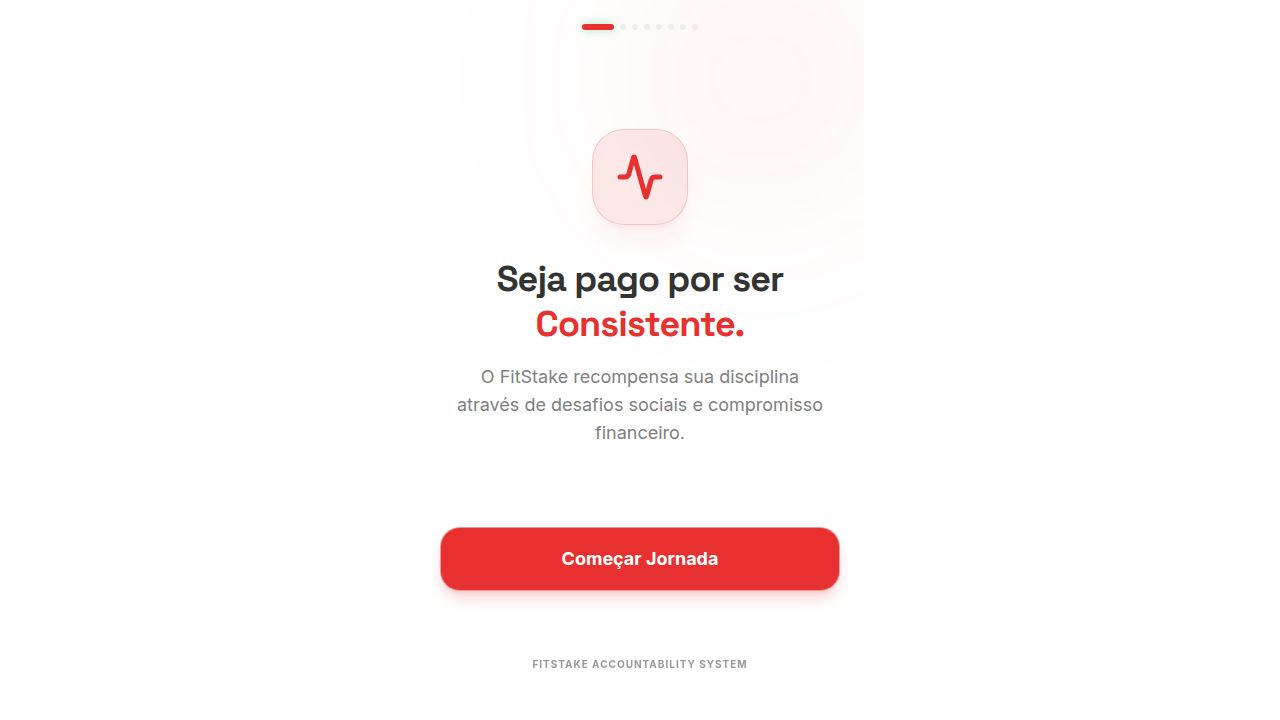
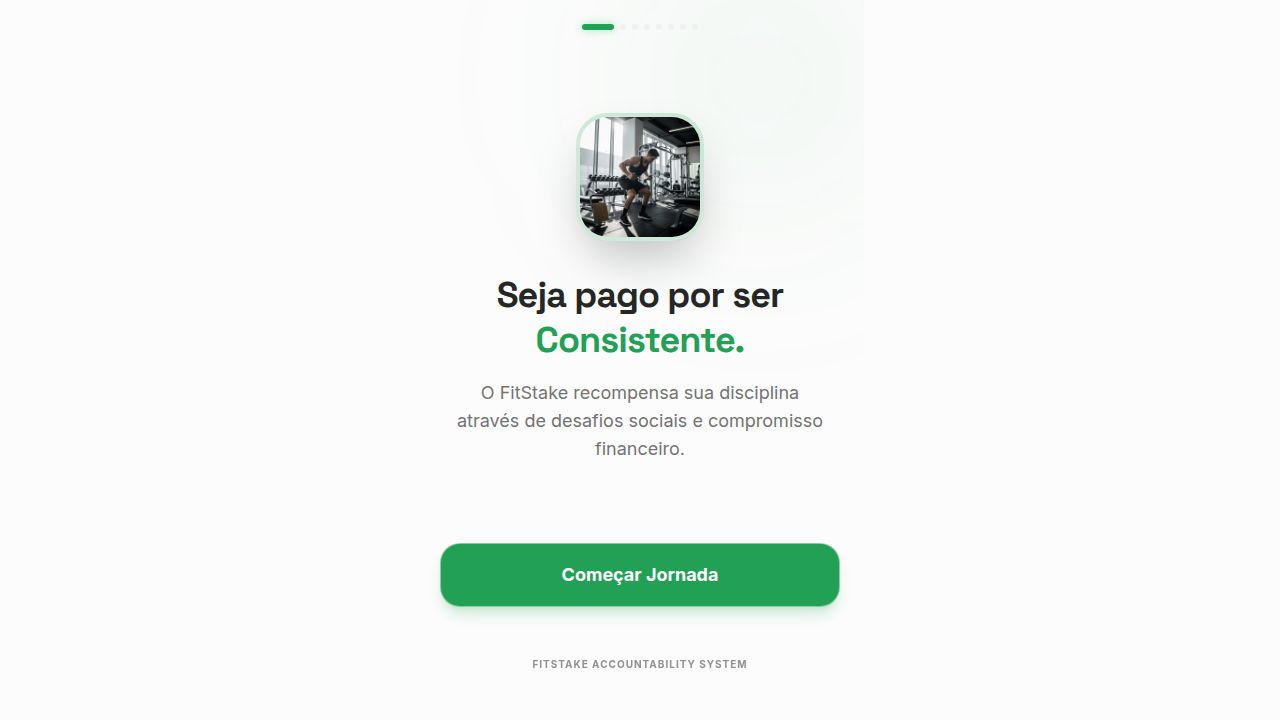
Add realistic hero images to the onboarding experience
Replaced simple icons with realistic hero images for the Welcome, SocialProof, and Final steps in the onboarding flow.

Replit-Commit-Author: Agent
Replit-Commit-Session-Id: 0ebdc8db-07a7-4f37-a5e6-39f3d7051c28
Replit-Commit-Checkpoint-Type: full_checkpoint
Replit-Commit-Event-Id: e4b458fb-2b9e-46b7-9dd2-0cf1a44a50df
Replit-Commit-Screenshot-Url: https://storage.googleapis.com/screenshot-production-us-central1/cc19ad50-2647-4531-8209-9a659b537e5d/0ebdc8db-07a7-4f37-a5e6-39f3d7051c28/6Yonqir
Replit-Helium-Checkpoint-Created: true

diff --git a/client/src/pages/onboarding.tsx b/client/src/pages/onboarding.tsx
@@ -29,12 +29,21 @@ const Welcome = ({ onNext }: { onNext: () => void }) => (
     initial={{ opacity: 0, y: 20 }} animate={{ opacity: 1, y: 0 }} exit={{ opacity: 0, x: -20 }}
     className="flex flex-col items-center text-center space-y-8"
   >
-    <div className="w-24 h-24 bg-primary/10 rounded-[2rem] flex items-center justify-center text-primary border border-primary/20 shadow-xl shadow-primary/5">
-      <Activity size={48} strokeWidth={2.5} />
-    </div>
+    <motion.div 
+      initial={{ scale: 0.8, opacity: 0 }}
+      animate={{ scale: 1, opacity: 1 }}
+      transition={{ delay: 0.2 }}
+      className="w-32 h-32 rounded-[2rem] overflow-hidden shadow-2xl border-4 border-primary/20"
+    >
+      <img 
+        src="/onboarding-hero-fitness.png" 
+        alt="Pessoa exercitando" 
+        className="w-full h-full object-cover"
+      />
+    </motion.div>
     <div className="space-y-4">
       <h1 className="text-4xl font-display font-bold leading-tight">
-        Seja pago por ser <span className="text-primary text-glow">Consistente.</span>
+        Seja pago por ser <span className="text-primary">Consistente.</span>
       </h1>
       <p className="text-muted-foreground text-lg px-4">
         O FitStake recompensa sua disciplina através de desafios sociais e compromisso financeiro.
@@ -81,9 +90,18 @@ const SocialProof = ({ onNext }: { onNext: () => void }) => (
     initial={{ opacity: 0, x: 20 }} animate={{ opacity: 1, x: 0 }} exit={{ opacity: 0, x: -20 }}
     className="space-y-8 text-center"
   >
-    <div className="w-20 h-20 bg-blue-500/10 rounded-full flex items-center justify-center text-blue-500 mx-auto border border-blue-500/20">
-      <Users size={40} />
-    </div>
+    <motion.div 
+      initial={{ scale: 0.8, opacity: 0 }}
+      animate={{ scale: 1, opacity: 1 }}
+      transition={{ delay: 0.2 }}
+      className="w-32 h-32 rounded-full overflow-hidden shadow-2xl border-4 border-primary/20 mx-auto"
+    >
+      <img 
+        src="/onboarding-hero-community.png" 
+        alt="Comunidade exercitando" 
+        className="w-full h-full object-cover"
+      />
+    </motion.div>
     <div className="space-y-4">
       <h2 className="text-5xl font-display font-bold text-primary">83%</h2>
       <p className="text-xl font-medium px-4">
@@ -217,9 +235,18 @@ const Final = ({ onComplete }: { onComplete: () => void }) => (
     initial={{ opacity: 0, x: 20 }} animate={{ opacity: 1, x: 0 }} exit={{ opacity: 0, x: -20 }}
     className="space-y-8 flex flex-col items-center text-center justify-center h-full"
   >
-    <div className="w-24 h-24 bg-green-500/10 rounded-full flex items-center justify-center text-green-500 mb-4 border border-green-500/20">
-      <CheckCircle2 size={48} />
-    </div>
+    <motion.div 
+      initial={{ scale: 0.8, opacity: 0 }}
+      animate={{ scale: 1, opacity: 1 }}
+      transition={{ delay: 0.2 }}
+      className="w-32 h-32 rounded-full overflow-hidden shadow-2xl border-4 border-primary/20"
+    >
+      <img 
+        src="/onboarding-hero-success.png" 
+        alt="Celebração de sucesso" 
+        className="w-full h-full object-cover"
+      />
+    </motion.div>
     <div className="space-y-2">
       <h2 className="text-3xl font-display font-bold">Tudo pronto!</h2>
       <p className="text-muted-foreground text-lg">Sua jornada para a consistência começa agora.</p>
